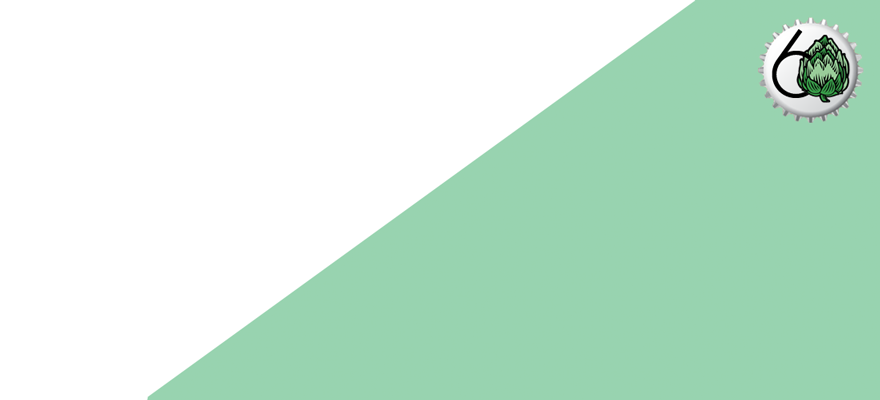
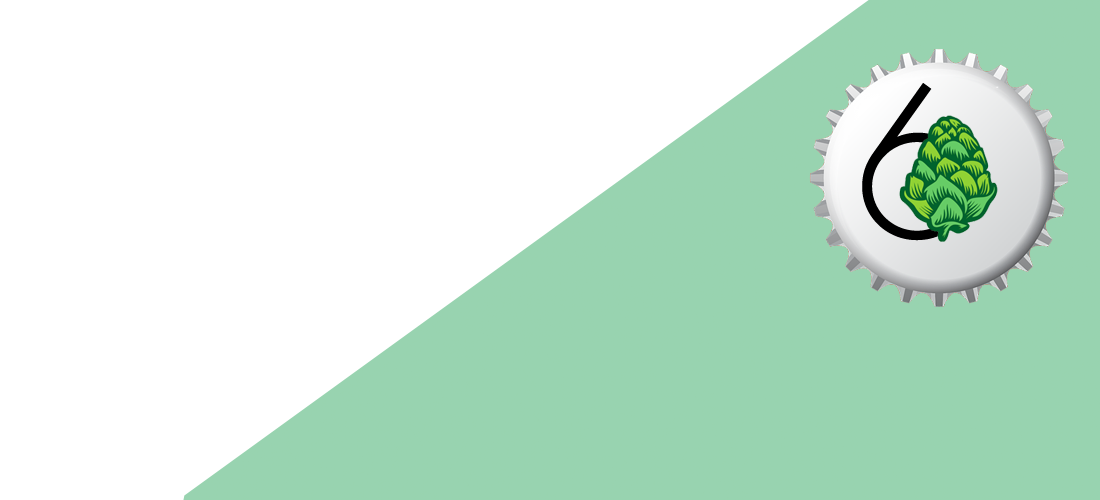
partial page changes beer backgorund

Changed region(s): [[0.7364, 0.03, 0.9818, 0.63]]

diff --git a/app/css/app.css b/app/css/app.css
@@ -5,11 +5,32 @@
 }
 
 #carousel1{
-	background:  url(./../img/overlay.png) right bottom no-repeat, url(./../img/beer-foam.jpg) left bottom repeat ;
+	background: url(./../img/beerbackground.png) right bottom no-repeat, url(./../img/beer-foam.jpg) left bottom repeat;
 	width: 100%;
     height: 100%;
     background-size: cover;
 
     /*-webkit-clip-path: polygon(100% 0, 0 100%, 0 0);
 	clip-path: polygon(100% 0, 0 100%, 0 0);*/
+}
+
+.logo1 {
+	position: absolute;
+	top:0;
+	right:0;
+}
+
+@media(max-width:767px) {
+    #carousel1 {
+    	/*background: url(./../img/overlaygreen.png) right bottom no-repeat;*/
+/*        width:!auto;
+       vertical-align: center;*/
+
+    }
+
+    .logo1 {
+    	right:50%;
+    	transform: translateX(50%);
+    }
+
 }

diff --git a/app/index.html b/app/index.html
@@ -67,7 +67,7 @@
 		                    <span class="icon-bar"></span>
 		                    <span class="icon-bar"></span>
 		                </button>
-		                <a class="navbar-brand" href="index.html">Start Bootstrap</a>
+		                <a class="navbar-brand" href="index.html">The Six Hops</a>
 		            </div>
 		            <!-- Collect the nav links, forms, and other content for toggling -->
 		            <div class="collapse navbar-collapse" id="bs-example-navbar-collapse-1">

diff --git a/app/app.js b/app/app.js
@@ -20,9 +20,9 @@ angular
 				templateUrl:'/partials/breweries.html',
 				controller: 'breweriesCtrl as ctrl'
 			})
-			.state('adminPanel',{
-				url:'/adminPanel',
-				templateUrl:'/partials/adminPanel.html',
+			.state('usersadminPanel',{
+				url:'/useradminPanel',
+				templateUrl:'/partials/useradminPanel.html',
 				controller: 'adminPanelCtrl as ctrl'
 			})
 			.state('beers',{

diff --git a/app/partials/home.html b/app/partials/home.html
@@ -14,6 +14,7 @@
         <div class="carousel-inner">
             <div class="item active">
                 <div class="fill" id="carousel1" ></div>
+                <img src="/img/bottlelogo.png" class="logo1">
                 <div class="carousel-caption">
                     <h2>The 6ix Hops</h2>
                 </div>
